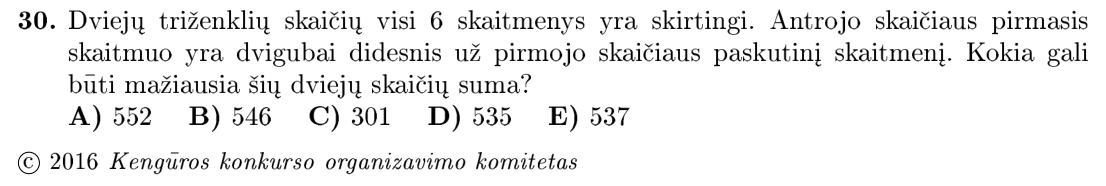
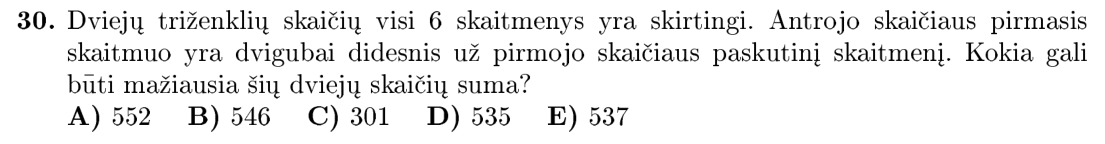
Loop 215: copyright footers and headings at the paper's edges
Q30 figures of 2013-2017 ended with the booklet's copyright line (the
TeX booklets draw the © as a circle, so the footer filter missed it);
2003/2009-30 had page footers, 2010/2011-30 the previous question's
last line, 2002-1 the 3-point heading. _recrop.py recognises the footer
by its words; 10 figures re-cut. sw.js FIGS v10.

Changed region(s): [[0.0, 0.0556, 0.9846, 0.6944], [0.0, 0.7222, 0.5846, 0.9444]]

diff --git a/sw.js b/sw.js
@@ -3,7 +3,7 @@
    the next load, offline still opens the app. Figures (png): cache-first,
    filled on demand → a paper the kid has opened once works offline. */
 const SHELL = "kengura-shell-v2";
-const FIGS = "kengura-figs-v9";   // bump whenever a figure PNG is replaced (cache-first!)
+const FIGS = "kengura-figs-v10";   // bump whenever a figure PNG is replaced (cache-first!)
 const SHELL_URLS = ["./", "kengura.html", "kengura-archive.js", "manifest.webmanifest", "icon.svg"];
 
 self.addEventListener("install", e => {

diff --git a/_recrop.py b/_recrop.py
@@ -125,10 +125,13 @@ def crop(pdf, n, old, year=None):
         bottom = nxt.y0 - 2
     else:   # last question of the column: down to its last word / drawing
         words = page.get_text('words')
-        foot = {round(w[1]) for w in words if w[4].startswith('©')}          # copyright footer lines
+        # copyright footer lines ("© 2014 Kengūros konkurso organizavimo komitetas";
+        # in the TeX booklets the © is a "c" inside a drawn circle)
+        foot = {round(w[1]) for w in words if w[4].startswith('©') or w[4] in ('organizavimo', 'komitetas', 'TEV,')}
         ys = [w[3] for w in words if col.contains(fitz.Rect(w[:4])) and w[1] > hr.y0
               and all(abs(w[1] - f) > 3 for f in foot)]
-        ys += [c.y1 for c in comps if c.y0 > hr.y0 - 40 and c.y1 > hr.y0]
+        ys += [c.y1 for c in comps if c.y0 > hr.y0 - 40 and c.y1 > hr.y0
+               and all(abs(c.y0 - f) > 6 for f in foot)]
         bottom = (max(ys) + 4) if ys else col.y1 - 8
     # a drawing belongs to the question whose band holds its vertical centre
     band_top, band_bot = hr.y0 - 3, bottom
